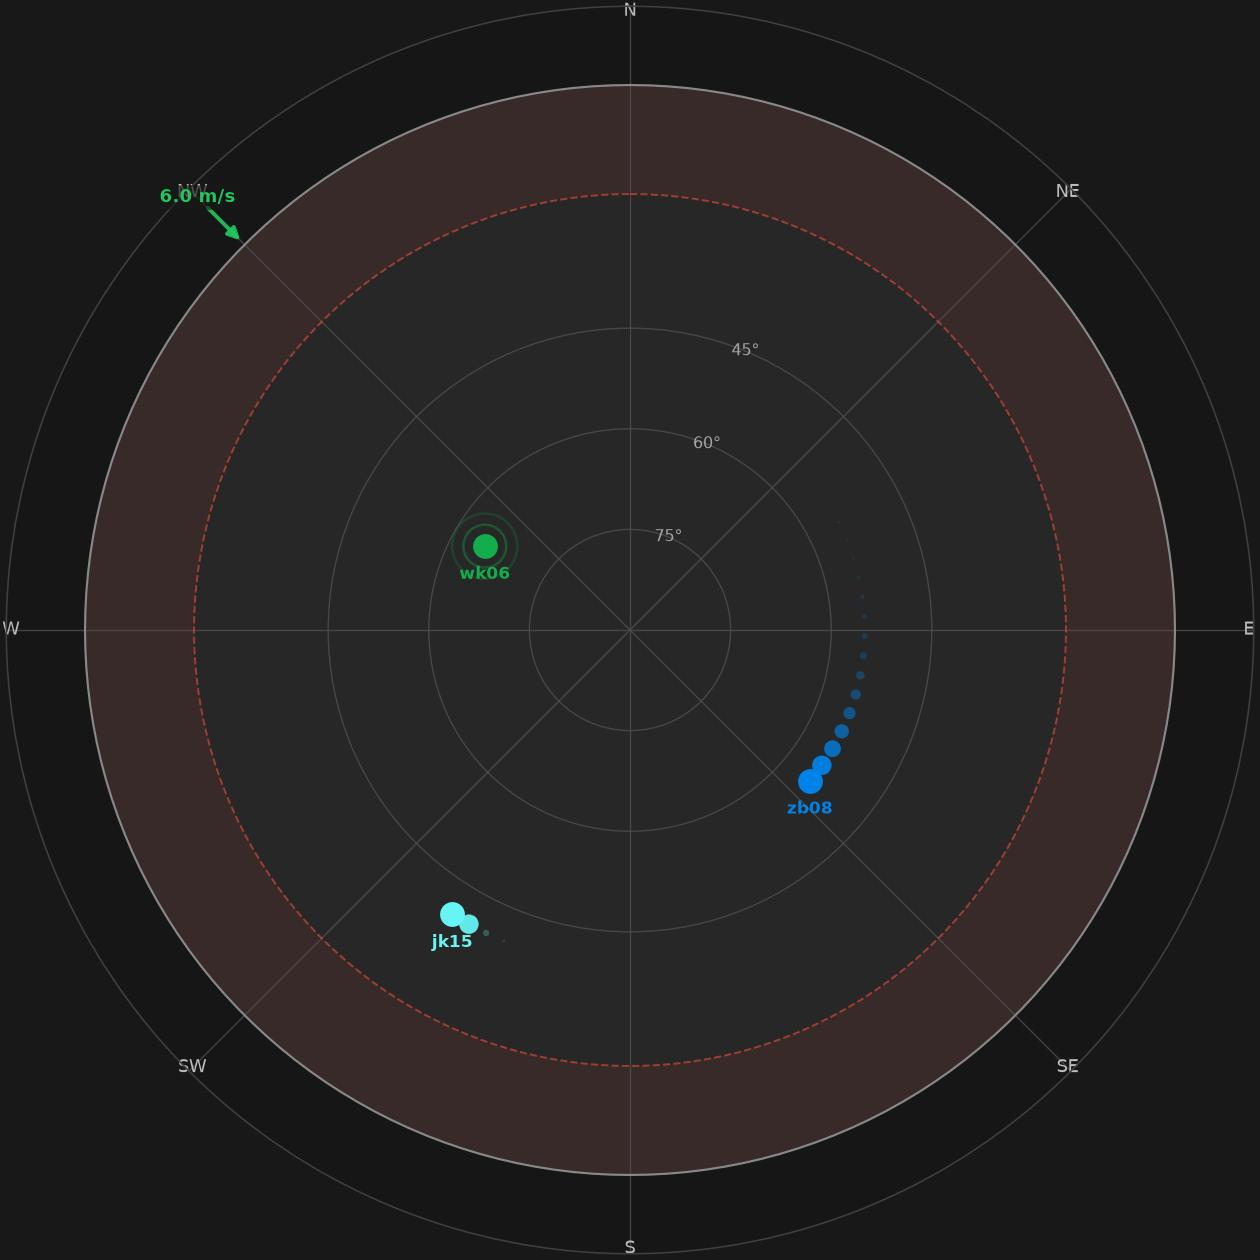
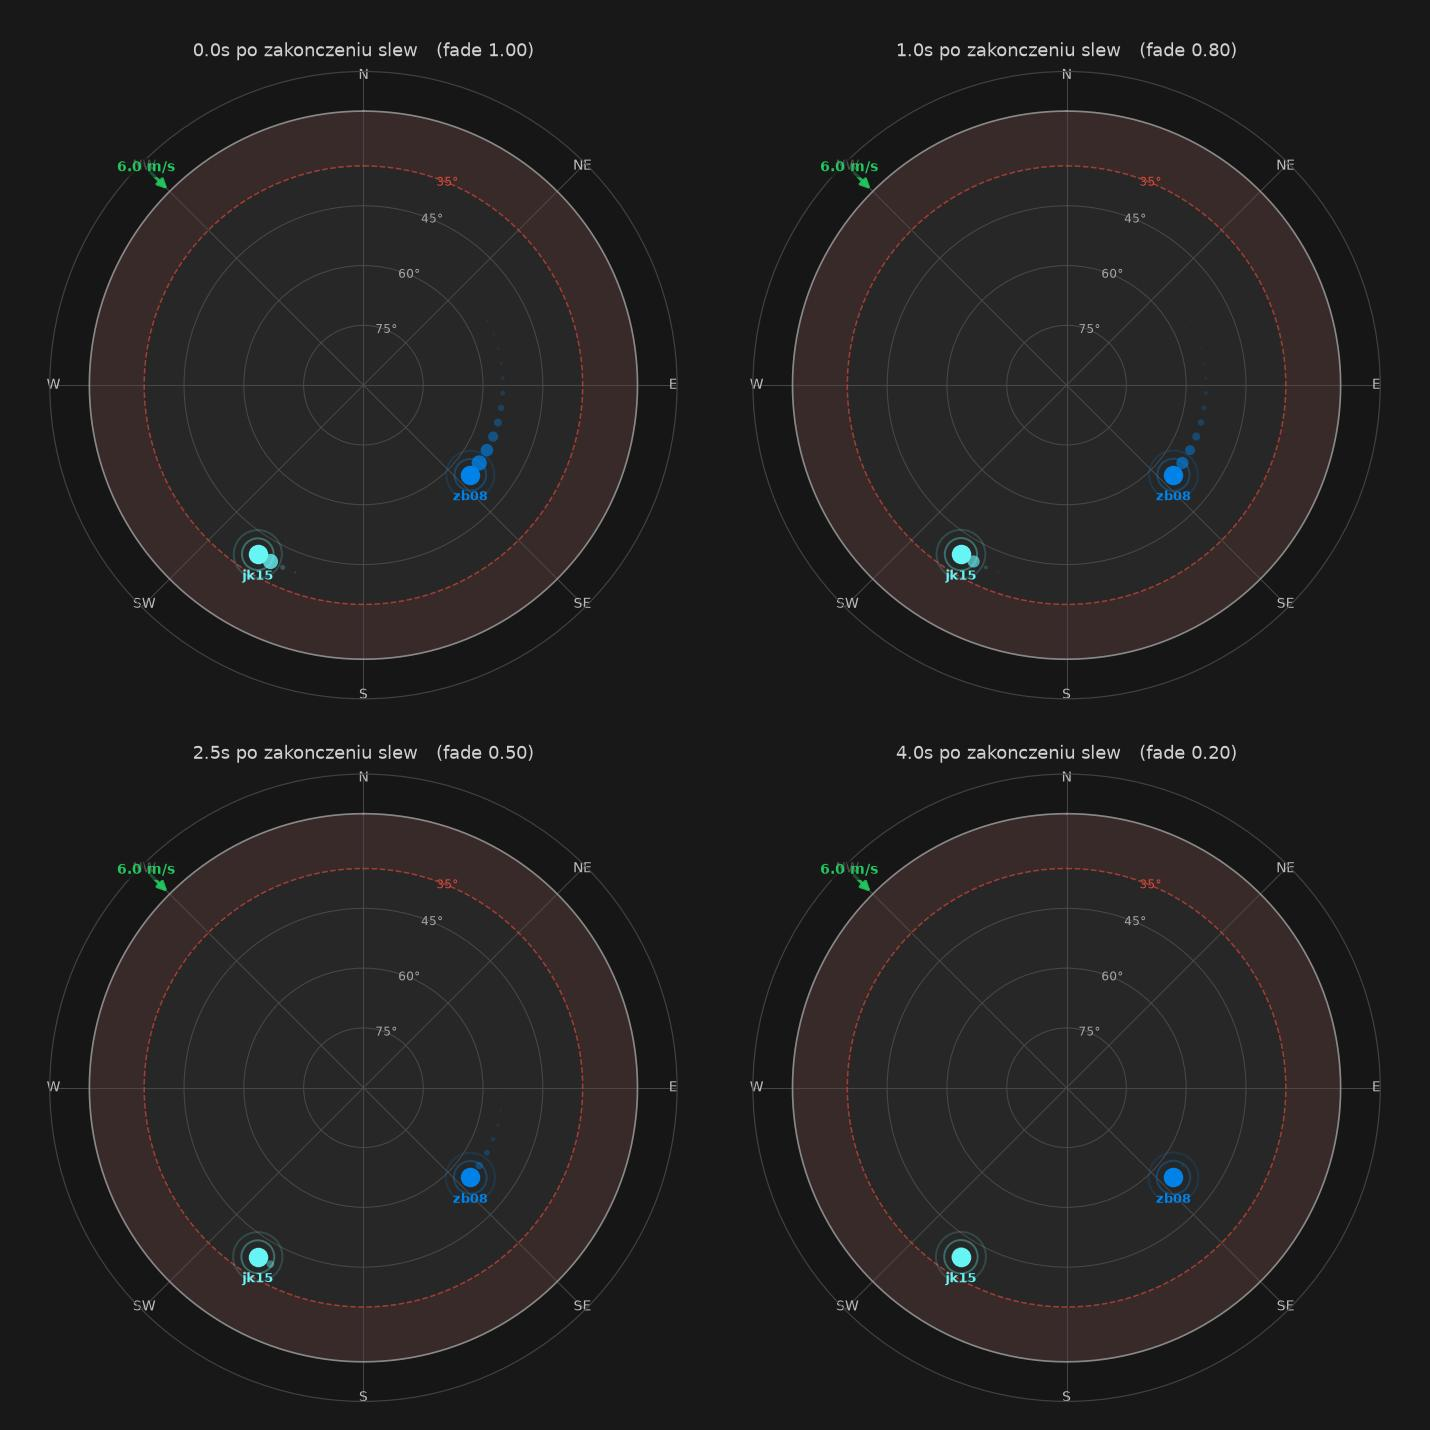
radar init 4a

diff --git a/oca_monitor/pages/radar.py b/oca_monitor/pages/radar.py
@@ -158,10 +158,11 @@ class RadarWidget(QWidget):
     TRAIL_ARC_MAX_STEPS = 60
     TRAIL_HEAD_D_PX = 10.0
     TRAIL_TAIL_D_PX = 1.4
-    TRAIL_HEAD_ALPHA = 0.95
+    TRAIL_HEAD_ALPHA = 0.80
     TRAIL_TAIL_ALPHA = 0.15
     TRAIL_SIZE_POW = 2.2
     TRAIL_ALPHA_POW = 3.0
+    TRAIL_FADE_SHRINK_POW = 2.0
 
     STALE_S = 1800.0
     TARGET_MIN_SEP_DEG = 1.0
@@ -588,6 +589,11 @@ class RadarWidget(QWidget):
             ax.text(np.radians(22.5), self._radius(alt), f'{alt}°',
                     color=COLOR_GRID_TEXT, fontsize=8, alpha=0.85,
                     ha='center', va='center', zorder=3)
+        # the observing limit is the one ring that moves with the config, so it
+        # says which altitude it stands for rather than leaving it to be guessed
+        ax.text(np.radians(22.5), r_min, f'{self._obs_min_alt():g}°',
+                color=ck.COLOR_DANGER, fontsize=8, alpha=0.95,
+                ha='center', va='center', zorder=3)
 
         for tel in self.telescopes:
             self._draw_dome(ax, tel)
@@ -717,10 +723,15 @@ class RadarWidget(QWidget):
             # the newest arc point sits under the telescope marker itself, so
             # the head of the taper belongs to the first dot behind it
             keep = self._thin_by_screen(ax, thetas, radii)[:-1]
-            if len(keep):
+            fade = self._trail_fade(trail[-1][0])
+            if len(keep) and fade > 0.0:
                 sizes, alphas = self._trail_taper(len(keep))
-                rgba = np.array([to_rgba(color, alpha=a) for a in alphas])
-                ax.scatter(thetas[keep], radii[keep], s=sizes,
+                rgba = np.array([to_rgba(color, alpha=a * fade) for a in alphas])
+                # squared: the fade scales the dot's diameter, not its area,
+                # so an ageing trail visibly shrinks as well as dims
+                ax.scatter(thetas[keep],
+                           radii[keep],
+                           s=sizes * fade ** self.TRAIL_FADE_SHRINK_POW,
                            c=rgba, edgecolors='none', zorder=4)
 
         target = (self._astro.get('targets') or {}).get(tel)
@@ -785,6 +796,16 @@ class RadarWidget(QWidget):
         thetas.append(_theta(az))
         radii.append(self._radius(alt))
         return np.array(thetas), np.array(radii)
+
+    def _trail_fade(self, head_t: float) -> float:
+        """Whole-trail fade, driven by how long ago the mount last moved.
+
+        The per-dot taper is ranked along the path, so a trail left behind by a
+        finished slew would keep its head bright while ageing points drop off
+        the tail - it would sit there fully lit and then blink out. Fading it as
+        a whole over ``trail_seconds`` lets it die away instead."""
+        idle = time.time() - head_t
+        return float(np.clip(1.0 - idle / self.trail_seconds, 0.0, 1.0))
 
     def _trail_taper(self, n: int):
         """Marker areas and alphas for ``n`` trail dots ordered oldest first.
